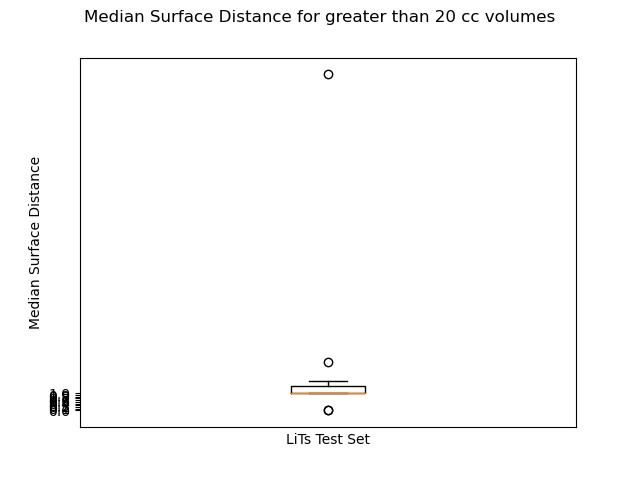
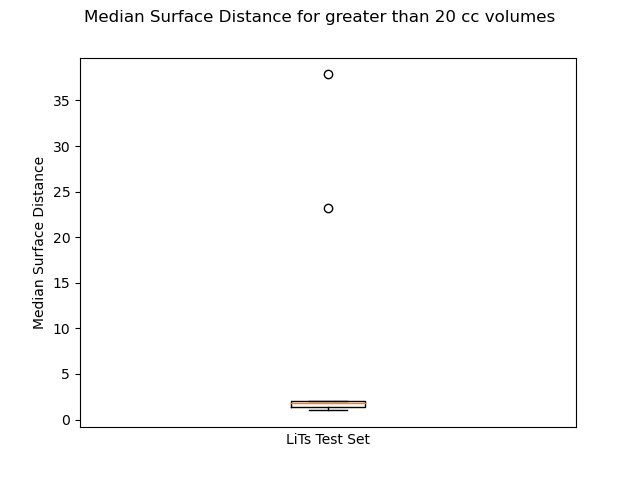
threshold from -3 to + 3, normalize liver on 25-75 percentile

diff --git a/Deep_Learning/Evaluate_Model/Evaluate_On_Data_TF2.py b/Deep_Learning/Evaluate_Model/Evaluate_On_Data_TF2.py
@@ -78,7 +78,7 @@ class run_metrics(object):
         self.save_path = save_path
 
     def process(self, threshold_range, seed_range, file, write_final_prediction=False):
-        pat_name = os.path.split(file)[-1]
+        pat_name = os.path.split(file)[-1].split('.')[0]
         print(pat_name)
         truth = sitk.ReadImage(file.replace('_Image','_Truth'), sitk.sitkUInt8)
         truth_array = sitk.GetArrayFromImage(truth)
@@ -94,7 +94,7 @@ class run_metrics(object):
         for _, measured_name in enumerate(OverlapMeasures):
             out_dict[measured_name.name] = np.zeros((len(threshold_range), len(seed_range)))
         for _, measured_name in enumerate(SurfaceDistanceMeasures):
-            out_dict[measured_name.name] = np.zeros((len(threshold_range), len(seed_range)))
+            out_dict[measured_name.name] = np.ones((len(threshold_range), len(seed_range)))*999
         reference_surface = sitk.LabelContour(truth)
         reference_distance_map = sitk.Abs(sitk.SignedMaurerDistanceMap(truth, squaredDistance=False,
                                                                        useImageSpacing=True))
@@ -176,7 +176,6 @@ class run_metrics(object):
                 out_dict[SurfaceDistanceMeasures.max_surface_distance.name][i, j] = np.max(
                     all_surface_distances)
         save_obj(os.path.join(self.save_path,'{}_out_dict.pkl'.format(pat_name)),out_dict)
-        return None
 
 
 def worker_def(A):
@@ -198,7 +197,7 @@ def combine_patient_pickles(out_path):
     image_list = [os.path.join(out_path, i) for i in os.listdir(out_path) if i.find('_out_dict.pkl') != -1]
     out_dict = {'volume':[],'patient_name':[]}
     for file in image_list:
-        pat_name = os.path.split(file)[-1].split('.nii.gz')[0]
+        pat_name = os.path.split(file)[-1].split('_out_dict')[0]
         out_dict['patient_name'].append(pat_name)
         patient_dict = load_obj(file)
         for key in patient_dict:
@@ -215,21 +214,24 @@ def find_best_threshold_seed(threshold_range, seed_range, out_path):
     threshold_names = ['Threshold_{}'.format(i) for i in threshold_range]
     seed_names = ['Seed_{}'.format(i) for i in seed_range]
     volume = out_dict['volume']
-    patient_names = out_dict['patient_name'][volume>10]
+    mask = volume>20
+    patient_names = out_dict['patient_name'][mask]
     for key in out_dict.keys():
-        if key == 'volume':
+        if key == 'volume' or key == 'patient_name':
             continue
-        data = np.median(out_dict[key][volume > 10], axis=0)
+        data = np.median(out_dict[key][mask], axis=0)
         if key in ['jaccard','dice', 'volume_similarity']:
             threshold, seed = np.where(np.round(data,4) == np.max(np.round(data,4)))
             title = 'Max'
         else:
             title = 'Min'
             threshold, seed = np.where(np.round(data,4) == np.min(np.round(data,4)))
+        threshold, seed = np.unique(threshold), np.unique(seed)
+        threshold, seed = threshold[len(threshold)//2], seed[len(seed)//2]
         print(
-            '{} {} is {} at threshold of {} and seed of {}'.format(title, key, np.round(data[threshold[0],seed[0]],3),
-                                                                   np.round(threshold_range[threshold[0]],2),
-                                                                   np.round(seed_range[seed[0]],2)))
+            '{} {} is {} at threshold of {} and seed of {}'.format(title, key, np.round(data[threshold,seed],3),
+                                                                   np.round(threshold_range[threshold],2),
+                                                                   np.round(seed_range[seed],2)))
         df = pd.DataFrame(data=data, index=threshold_names, columns=seed_names)
         df.to_excel(os.path.join(out_path,'{}.xlsx'.format(key)))
     return None
@@ -238,7 +240,7 @@ def find_best_threshold_seed(threshold_range, seed_range, out_path):
 def create_metric_chart(path = r'D:\Liver_Disease_Ablation\Predictions\Validation', out_path=os.path.join('.','Threshold'),
                         threshold_range=[0.1,0.15,0.2,0.25,0.3,0.35,0.4,0.45,0.5,0.55,0.6,0.65,0.7,0.75,0.8,0.85,0.9,0.95],
                         seed_range=[0.1,0.15,0.2,0.25,0.3,0.35,0.4,0.45,0.5,0.55,0.6,0.65,0.7,0.75,0.8,0.85,0.9,0.95],
-                        desc='', thread_count=int(cpu_count()*.95-1), re_write=False, write_final_prediction=False):
+                        thread_count=int(cpu_count()*.95-1), re_write=False, write_final_prediction=False):
     image_list = [os.path.join(path,i) for i in os.listdir(path) if i.find('_Image') != -1]
     if not os.path.exists(out_path):
         os.makedirs(out_path)
@@ -252,7 +254,7 @@ def create_metric_chart(path = r'D:\Liver_Disease_Ablation\Predictions\Validatio
         t.start()
         threads.append(t)
     for file in image_list:
-        pat_name = os.path.split(file)[-1]
+        pat_name = os.path.split(file)[-1].split('.')[0]
         if os.path.exists(os.path.join(out_path, '{}_out_dict.pkl'.format(pat_name))) and not re_write:
             continue
         item['file'] = file

diff --git a/Deep_Learning/Return_Train_Validation_Generators_TF2.py b/Deep_Learning/Return_Train_Validation_Generators_TF2.py
@@ -317,8 +317,17 @@ def return_generators(batch_size=16, wanted_keys={'inputs':['image','mask'],'out
     train_processors += [
         Ensure_Image_Proportions(image_rows=120, image_cols=120),
         Return_Add_Mult_Disease(change_background=change_background),
+    ]
+    if threshold:
+        train_processors += [
+            Threshold_Images(lower_bound=-3, upper_bound=3)
+        ]
+        validation_processors += [
+            Threshold_Images(lower_bound=-3, upper_bound=3)
+        ]
+    train_processors += [
         Cast_Data({'image': 'float16', 'annotation': 'float16', 'mask': 'int32'}),
-        {'cache': os.path.join(base_path,'Train{}{}'.format(add,cache_add))},
+        {'cache': os.path.join(base_path, 'Train{}{}'.format(add, cache_add))}
     ]
     validation_processors += [
         Return_Add_Mult_Disease(change_background=change_background),
@@ -326,13 +335,6 @@ def return_generators(batch_size=16, wanted_keys={'inputs':['image','mask'],'out
     if cache:
         validation_processors += [
         {'cache': os.path.join(base_path,'{}{}{}'.format(ext,add,cache_add))}
-        ]
-    if threshold:
-        train_processors += [
-            Threshold_Images(lower_bound=-10, upper_bound=10)
-        ]
-        validation_processors += [
-            Threshold_Images(lower_bound=-10, upper_bound=10)
         ]
     if flip:
         train_processors += [
@@ -351,7 +353,7 @@ def return_generators(batch_size=16, wanted_keys={'inputs':['image','mask'],'out
         {'repeat'}]
     train_generator.compile_data_set(image_processors=train_processors, debug=False)
     validation_generator.compile_data_set(image_processors=validation_processors, debug=False)
-    for generator in [train_generator, validation_generator]: #
+    for generator in [validation_generator, train_generator]: #
         data_set = iter(generator.data_set)
         for _ in range(len(generator)):
             x, y = next(data_set)
@@ -362,5 +364,5 @@ def return_generators(batch_size=16, wanted_keys={'inputs':['image','mask'],'out
 
 
 if __name__ == '__main__':
-    # return_generators(add='_32', flip=True, threshold=True, change_background=True, cache_add='_change_bckrd')
+    return_generators(add='_32', flip=False, threshold=True, change_background=True, cache_add='_change_bckrd')
     pass

diff --git a/Deep_Learning/Evaluate_Model/Main.py b/Deep_Learning/Evaluate_Model/Main.py
@@ -40,17 +40,17 @@ def main():
     if evaluate_prediction:
         from Deep_Learning.Evaluate_Model.Evaluate_On_Data_TF2 import create_metric_chart, np
         path = r'D:\Liver_Disease_Ablation\Predictions\ValidationTF2_Multi_Cube'
-        create_metric_chart(path=path,desc=desc,out_path=os.path.join('.','Threshold_Seed_Pickles'),
-                            seed_range=[.8,.85,.9,.925,.95,.96,.97,.98,.99],
-                            threshold_range=np.arange(0.1,0.96,0.01), re_write=False, thread_count=12)
+        create_metric_chart(path=path,out_path=os.path.join('.','Threshold_Seed_Pickles'),
+                            seed_range=np.arange(0.5,1.0,0.05),
+                            threshold_range=np.arange(0.1,1.0,0.05), re_write=False, thread_count=12)
 
     evaluate_test = False
     if evaluate_test:
         from Deep_Learning.Evaluate_Model.Evaluate_On_Data_TF2 import create_metric_chart
         path = r'D:\Liver_Disease_Ablation\Predictions\TestTF2_Multi_Cube'
-        create_metric_chart(path=path,desc=desc,out_path=os.path.join('.','Test_Output'),
-                            seed_range=[.99], threshold_range=[.35], re_write=False,
-                            write_final_prediction=True, thread_count=6)
+        create_metric_chart(path=path,out_path=os.path.join('.','Test_Output'),
+                            seed_range=[.85], threshold_range=[.15], re_write=True,
+                            write_final_prediction=True, thread_count=12)
 
     write_box_plots = False
     if write_box_plots:
@@ -61,7 +61,9 @@ def main():
         df = pd.read_excel(out_path, engine='xlrd')
         volumes = df['volume'].values
         values = df['median_surface_distance'].values
-        create_plot('Median Surface Distance for greater than 20 cc volumes',values=values[volumes>20],metric='Median Surface Distance', out_path=os.path.join('.','Images'))
+        values = values[volumes>20]
+        values = values[values<1000]
+        create_plot('Median Surface Distance for greater than 20 cc volumes',values=values,metric='Median Surface Distance', out_path=os.path.join('.','Images'))
         xxx = 1
 
 

diff --git a/Deep_Learning/Evaluate_Model/Make_Box_Plots.py b/Deep_Learning/Evaluate_Model/Make_Box_Plots.py
@@ -22,13 +22,12 @@ def create_plot(title, values, metric, out_path=None):
     y_ticks = [0,0.1,0.2,0.3,0.4,0.5,0.6,0.7,0.8,0.9,1]
     plt.figure(0)
     plt.suptitle(title)
-    plt.yticks(y_ticks)
     ax = plt.subplot(1,1,1)
     plt.boxplot(values)
     plt.xlabel('LiTs Test Set')
     plt.ylabel(metric)
     plt.xticks(num_labels,x_ticks)
-    plt.yticks(y_ticks)
+    # plt.yticks(y_ticks)
     if out_path is not None:
         if not os.path.exists(out_path):
             os.makedirs(out_path)